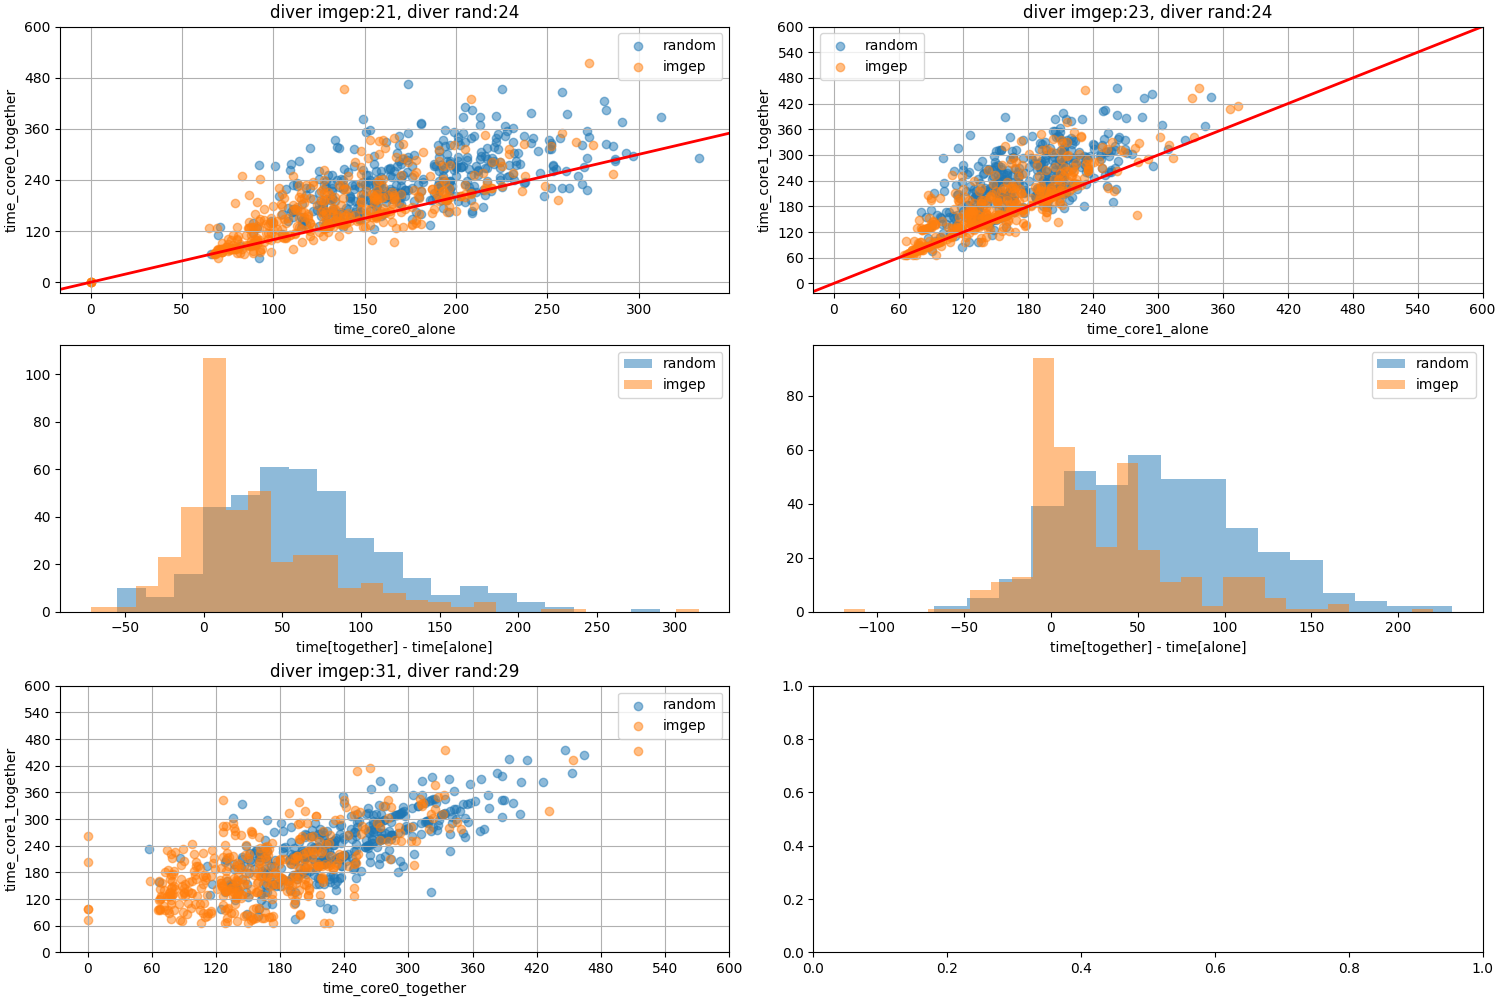
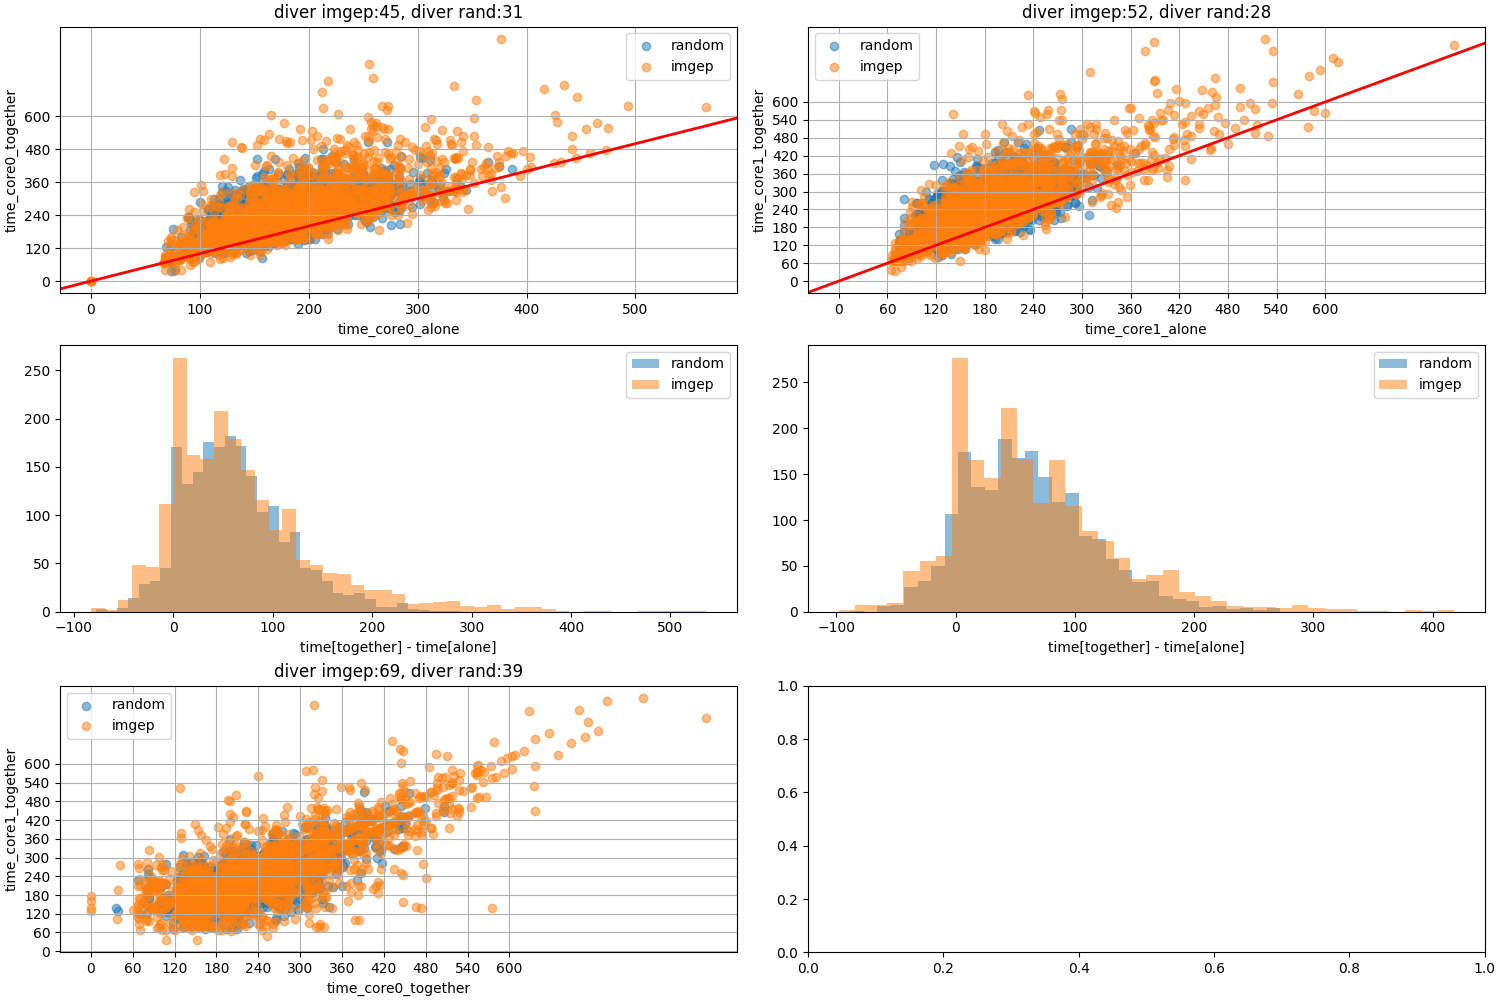
update

diff --git a/sim/sim_use.py b/sim/sim_use.py
@@ -24,47 +24,8 @@ class runpgrms:
         self.list_best_request1 = []    
         self.list_address1 = []   
         self.max_len = max_len
-        self.out = {"bank":{key:[] for key in range(self.num_banks)}}
-
-        self.out0 = {"addr":-np.ones(self.max_len),
-
-                    "addr2": -np.ones(self.max_instr),
-                    "bank":-np.ones(self.max_len),
-                    "bank0":-np.zeros(self.max_len),
-                    "bank1":-np.zeros(self.max_len),
-                    "bank2":-np.zeros(self.max_len),
-                    "bank3":-np.zeros(self.max_len),
-                    "delay":-np.ones(self.max_instr),
-                    "completion_time":-np.ones(self.max_instr),
-                    "status":-np.ones(self.max_len),
-                    "time":0,
-                    "min_time":-np.ones(self.max_instr),
-                    "max_time":-np.ones(self.max_instr),
-                    "min_addr":-np.ones(self.max_instr),
-                    "max_addr":-np.ones(self.max_instr),
-                    "max_radius":-np.ones(self.max_instr),
-                    "pending_addr":[],
-                    "pending_core_id":[],
-                    }
-        self.out1 = {"addr":-np.ones(self.max_len),
-                    "addr2":-np.ones(self.max_instr),
-                    "bank":-np.ones(self.max_len),
-                    "bank0":-np.zeros(self.max_len),
-                    "bank1":-np.zeros(self.max_len),
-                    "bank2":-np.zeros(self.max_len),
-                    "bank3":-np.zeros(self.max_len),
-                    "delay":-np.ones(self.max_instr),
-                    "completion_time":-np.ones(self.max_instr),
-                    "status":-np.ones(self.max_len),
-                    "time":0,
-                    "min_time":-np.ones(self.max_instr),
-                    "max_time":-np.ones(self.max_instr),
-                    "min_addr":-np.ones(self.max_instr),
-                    "max_addr":-np.ones(self.max_instr),
-                    "max_radius":-np.ones(self.max_instr),
-                    "pending_addr":[],
-                    "pending_core_id":[],
-                    }
+        self.miss_count = np.zeros(self.num_banks) 
+        self.hits_count = np.zeros(self.num_banks)
         self.ratios = None
         self.compl_time_core0 = 0
         self.compl_time_core1 = 0
@@ -119,60 +80,26 @@ class runpgrms:
                 exit()
         self.reorder()
     def reorder(self):
-
         hits = np.zeros(self.num_banks)
         miss = np.zeros(self.num_banks)
         for d in self.list_best_request:
-            self.out["bank"][d["bank"]].append(1*d["status"]=="ROW MISS")
+            self.miss_count[d["bank"]]+=1*d["status"]=="ROW MISS"
+            self.hits_count[d["bank"]]+=1*d["status"]=="ROW HIT"
             if d["status"]=="ROW MISS":
                 miss[d["bank"]] +=1
             else:
                 hits[d["bank"]] +=1
             if d["core"]==0:
                 self.compl_time_core0 = max(self.compl_time_core0,d["completion_time"])
-                #self.out0["addr"][d["arrival_time"]] = d["addr"]
-                #self.out0["addr2"][d["emmission_cycle"]] = d["addr"]
-                #self.out0["min_time"][d["emmission_cycle"]] = d["min_time"]
-                #self.out0["max_time"][d["emmission_cycle"]] = d["max_time"]
-                #self.out0["max_radius"][d["emmission_cycle"]] = d["max_radius"]
-                #self.out0["min_addr"][d["emmission_cycle"]] = d["min_addr"]
-                #self.out0["max_addr"][d["emmission_cycle"]] = d["max_addr"]
-                #self.out0["bank"][d["arrival_time"]] = d["bank"]
-                #self.out0["delay"][d["emmission_cycle"]] = d["emmission_cycle"]
-                #self.out0["completion_time"][d["emmission_cycle"]] = d["emmission_cycle"]
-                #self.out0["status"][d["arrival_time"]] = 1*d["status"]=="ROW MISS"
-                #self.out0[f"bank{d['bank']}"][d["arrival_time"]] +=1
-                #self.out0["time"] = max(self.out0["time"], d["completion_time"]) 
-                #self.out0["pending_addr"].append(d["pending_addr"])
-                #self.out0["pending_core_id"].append(d["pending_core_id"])
             elif d["core"]==1:
                 self.compl_time_core1 = max(self.compl_time_core1,d["completion_time"])
-                #self.out1["addr"][d["arrival_time"]] = d["addr"]
-                #self.out1["addr2"][d["emmission_cycle"]] = d["addr"]
-                #self.out1["min_time"][d["emmission_cycle"]] = d["min_time"]
-                #self.out1["max_time"][d["emmission_cycle"]] = d["max_time"]
-                #self.out1["max_radius"][d["emmission_cycle"]] = d["max_radius"]
-                #self.out1["min_addr"][d["emmission_cycle"]] = d["min_addr"]
-                #self.out1["max_addr"][d["emmission_cycle"]] = d["max_addr"]
-                #self.out1["bank"][d["arrival_time"]] = d["bank"]
-                #self.out1[f"bank{d['bank']}"][d["arrival_time"]] +=1
-                #self.out1["delay"][d["emmission_cycle"]] = d["emmission_cycle"]
-                #self.out1["completion_time"][d["emmission_cycle"]] = d["emmission_cycle"]
-                #self.out1["status"][d["arrival_time"]] = 1*d["status"]=="ROW MISS"
-                #self.out1["time"] = max(self.out1["time"], d["completion_time"]) 
-                #self.out1["pending_addr"].append(d["pending_addr"])
-                #self.out1["pending_core_id"].append(d["pending_core_id"])
             else:
                 print("erreur")
                 exit()
-        #plt.figure()
-        #plt.plot(self.out0["delay"])
-        #plt.show()
         denominator = miss + hits
         denominator[denominator==0] = -1
         self.ratios = miss/(denominator)
         self.ratios[self.ratios<0] = -1
-        #self.ratios[np.isnan(self.ratios)] = -1
     def acces_history(self):   
         a = np.zeros(self.max_instr)   
         b = np.zeros(self.max_instr)   

diff --git a/exploration/imgep/goal_generator.py b/exploration/imgep/goal_generator.py
@@ -10,7 +10,7 @@ class GoalGenerator:
         self.k_time = 0
         self.k_miss = 0
         time_module = ["time", "time_diff"]
-        self.miss_modules = [f"miss_bank_{j}" for j in range(self.num_bank)]+["ratios_diff"]
+        self.miss_modules = [f"miss_bank_{j}" for j in range(self.num_bank)]+["ratios_diff"] + [f"miss_count_bank_{j}" for j in range(self.num_bank)]
         self.modules = time_module + self.miss_modules
     def __call__(self,H:History, module:str)->dict:
         assert module in self.modules, f"module {module} unknown"
@@ -22,15 +22,29 @@ class GoalGenerator:
             times_together = np.floor(delta*times)
             return np.concatenate((times,times_together))
         elif module in [f"miss_bank_{j}" for j in range(self.num_bank)]:
-            minmiss = np.stack((stats["miss_ratios_core0"]["min"][int(module[-1])],stats["miss_ratios_core1"]["min"][int(module[-1])]))
+            minmiss = np.stack((stats["miss_ratios_core0"]["min"][int(module[-1])],
+                                stats["miss_ratios_core1"]["min"][int(module[-1])],
+                                stats["miss_ratios"]["min"][int(module[-1])]))
+            #minmiss = .1+(1-np.sign(minmiss)*0.4)*minmiss
+            maxmiss = 2*np.stack((stats["miss_ratios_core0"]["max"][int(module[-1])],
+                                  stats["miss_ratios_core1"]["max"][int(module[-1])],
+                                  stats["miss_ratios"]["max"][int(module[-1])])
+                                   )
+            #miss_target = np.random.uniform(minmiss,maxmiss)
+            miss_target = maxmiss
+            return miss_target
+        elif module in [f"miss_count_bank_{j}" for j in range(self.num_bank)]:
+            minmiss = np.stack((stats["miss_count_core0"]["min"][int(module[-1])],
+                                stats["miss_count_core1"]["min"][int(module[-1])],
+                                stats["miss_count"]["min"][int(module[-1])]))
             minmiss = (1-np.sign(minmiss)*0.4)*minmiss
-            maxmiss = 1.5*np.stack((stats["miss_ratios_core0"]["max"][int(module[-1])],stats["miss_ratios_core1"]["max"][int(module[-1])]))
-            miss_target = np.random.uniform(minmiss,maxmiss)
-            together = np.mean(miss_target*np.random.uniform(.6,4.0,(1,)))
-            out = np.zeros(3)
-            out[:2] = miss_target
-            out[2] = together
-            return out
+            maxmiss = np.stack((stats["miss_count_core0"]["max"][int(module[-1])],
+                                  stats["miss_count_core1"]["max"][int(module[-1])],
+                                  stats["miss_count"]["max"][int(module[-1])])
+                                   )
+            #miss_count_target = np.random.uniform(minmiss,maxmiss)
+            miss_count_target = 1.5* maxmiss
+            return miss_count_target
 
         elif module=="time_diff":
             times = np.concatenate((np.floor(1.0*np.random.randint(stats["diff_time0"]["min"],4.0*stats["diff_time0"]["max"],(1,))),
@@ -38,6 +52,6 @@ class GoalGenerator:
             return times 
         elif module=="ratios_diff":
             minmiss = np.stack((stats["diff_ratios_core0"]["min"],stats["diff_ratios_core0"]["min"]))
-            maxmiss = 1.5*np.stack((stats["diff_ratios_core1"]["max"],stats["diff_ratios_core1"]["max"]))
+            maxmiss = 1.0*np.stack((stats["diff_ratios_core1"]["max"],stats["diff_ratios_core1"]["max"]))
             miss_target = np.random.uniform(minmiss,maxmiss)
             return miss_target

diff --git a/exploration/history.py b/exploration/history.py
@@ -11,6 +11,9 @@ class History:
                             "time_core1_together":[],
                             "time_core0_alone":[],
                             "time_core1_alone":[],
+                            "miss_count":[],
+                            "miss_count_core0":[],
+                            "miss_count_core1":[],
                                                 }
         self.k=0
     def stats2(self):
@@ -36,6 +39,9 @@ class History:
         self.memory_perf["time_core1_together"].append(sample["time_core1_together"])
         self.memory_perf["time_core0_alone"].append(sample["time_core0_alone"])
         self.memory_perf["time_core1_alone"].append(sample["time_core1_alone"])
+        self.memory_perf["miss_count"].append(sample["miss_count"])
+        self.memory_perf["miss_count_core0"].append(sample["miss_count_core0"])
+        self.memory_perf["miss_count_core1"].append(sample["miss_count_core1"])
 
         self.memory_perf["diff_ratios_core0"] = np.abs(np.array(self.memory_perf["miss_ratios_core0"]) - np.array(self.memory_perf["miss_ratios"]))
         self.memory_perf["diff_ratios_core1"] = np.abs(np.array(self.memory_perf["miss_ratios_core1"]) - np.array(self.memory_perf["miss_ratios"]))
@@ -55,6 +61,10 @@ class History:
         return out,["diff_time0", "diff_time1"]
     def miss2ndarray(self, bank:int):
         keys = ["miss_ratios_core0","miss_ratios_core1","miss_ratios"]
+        out = np.array([np.array(self.memory_perf[key])[:,bank] for key in keys])
+        return out,keys
+    def miss_count_2ndarray(self, bank:int):
+        keys = ["miss_count_core0","miss_count_core1","miss_ratios"]
         out = np.array([np.array(self.memory_perf[key])[:,bank] for key in keys])
         return out,keys
     def missdiff2ndarray(self):

diff --git a/test.py b/test.py
@@ -12,27 +12,27 @@ from visu import representation, comparaison
 
 if __name__=="__main__":
     #random.seed(0)
-    N = int(500)
-    N_init = 100
+    N = int(2000)
+    N_init = 500
     max_len = 1000  
     length_programs = 100
     k = 4
-    periode = 5
+    periode = 20
     num_bank = 4
 
-    H_rand = History(max_size=1000)
-    H2_rand = History(max_size=1000)
+    H_rand = History(max_size=2000)
+    H2_rand = History(max_size=2000)
     En = Env(length_programs=length_programs, max_len=max_len)
     rand = RANDOM(N = N,E = En, H = H_rand, H2 = H2_rand)
     rand()
     content_random = H_rand.present_content()
-    
-    for k in [1,2,3,4,5,6]:
+    modules = ["time"]+ ["time_diff"]+[f"miss_bank_{j}" for j in range(4)]+["ratios_diff"]+ [f"miss_count_bank_{j}" for j in range(num_bank)]
+    for k in [2]:
         G = GoalGenerator(num_bank = num_bank)
-        Pi = OptimizationPolicykNN(k=k,mutation_rate=.3,max_len=50)
+        Pi = OptimizationPolicykNN(k=k,mutation_rate=.1,max_len=50)
         H_imgep = History(max_size=1000)
         H2_imgep = History(max_size=1000)
-        imgep = IMGEP(N,N_init, En,H_imgep,G,Pi, periode = periode)
+        imgep = IMGEP(N,N_init, En,H_imgep,G,Pi, periode = periode, modules = modules)
         imgep()
         content_imgep = H_imgep.present_content()
         comparaison(content_random, content_imgep, name = [f"image/comp_ratios_{k}",f"image/comp_times_k{k}"])

diff --git a/exploration/env/func.py b/exploration/env/func.py
@@ -24,10 +24,6 @@ class Env:
         program0(parameter["core0"][0],[])
         program1([],parameter["core1"][0])
         return {
-                #"core0":program.out0,
-                #"core1":program.out1,
-                #"core0_alone":program0.out0,
-                #"core1_alone":program1.out1,
                 "perf": program.ratios,
                 "perf_core0": program0.ratios,
                 "perf_core1": program1.ratios,
@@ -35,6 +31,9 @@ class Env:
                 "time_core1_together":program.compl_time_core1,
                 "time_core0_alone":program0.compl_time_core0,
                 "time_core1_alone":program1.compl_time_core1,
+                "miss_count":program.miss_count,
+                "miss_count_core0":program0.miss_count,
+                "miss_count_core1":program1.miss_count,
                 }
     def _make_program(self):
         ddr = DDRMemory()

diff --git a/exploration/imgep/OptimizationPolicy.py b/exploration/imgep/OptimizationPolicy.py
@@ -49,6 +49,8 @@ class OptimizationPolicykNN:
             b,_ = H.times2ndarray()
         elif module in [f"miss_bank_{j}" for j in range(4)]:
             b,_ = H.miss2ndarray(int(module[-1]))
+        elif module in [f"miss_count_bank_{j}" for j in range(4)]:
+            b,_ = H.miss_count_2ndarray(int(module[-1]))
         elif module=="time_diff":
             b,_ = H.timesdiff2ndarray()
         elif module=="ratios_diff":

diff --git a/README.md b/README.md
@@ -130,3 +130,5 @@ The result of an exploration with **kNN** with k=2.
 
 
 
+![Alt text](image/comp_ratios_2.png)
+![Alt text](image/miss_times_k2.png)
